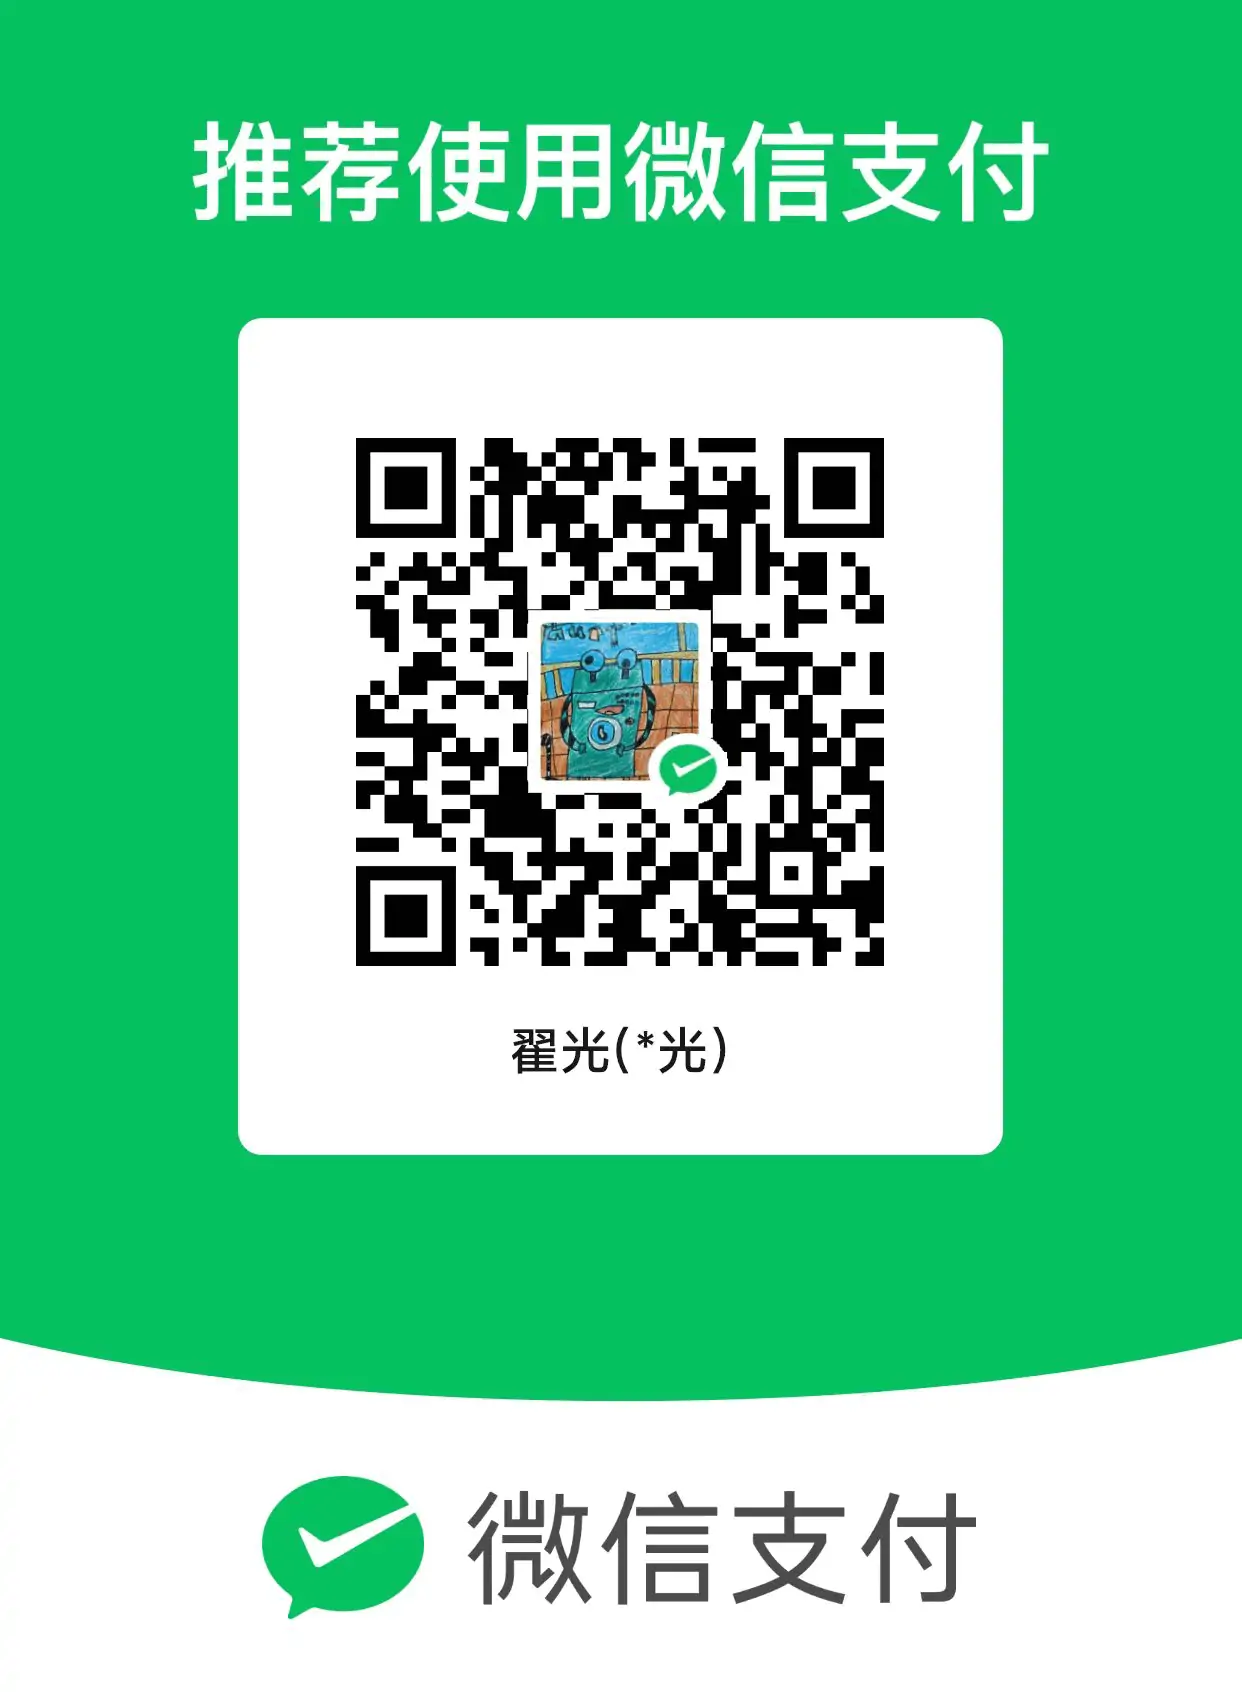
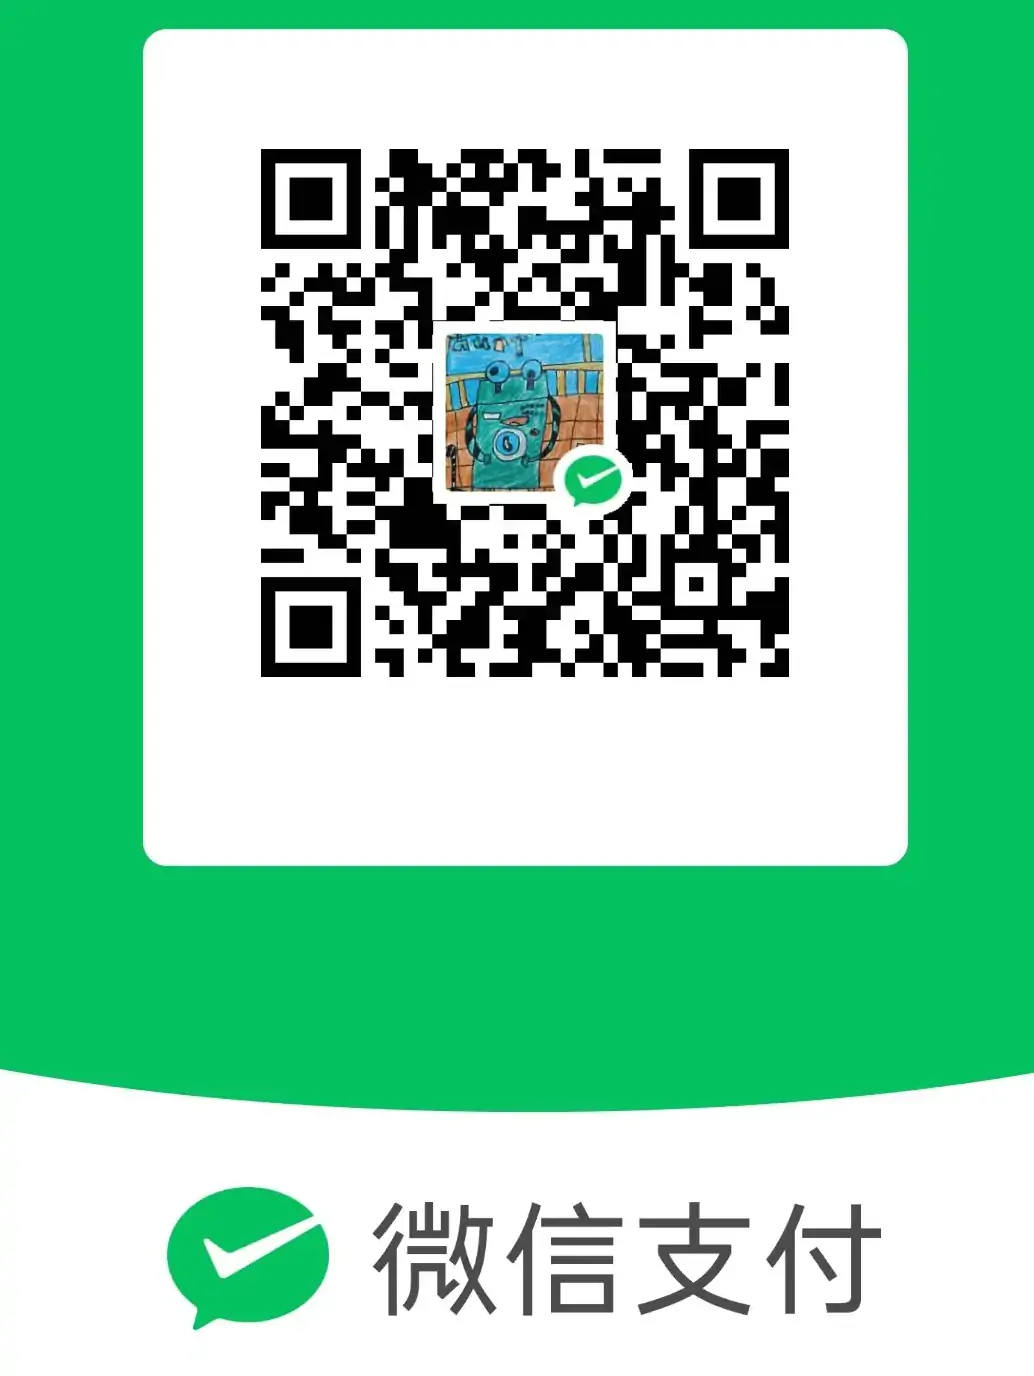
qr edit

diff --git a/README.md b/README.md
@@ -57,5 +57,5 @@ MIT License
 If you find this project useful, you can buy me a coffee:
 
 [![paypal](https://github.com/Ximi1970/Donate/blob/master/paypal_btn_donateCC_LG_1.gif)](https://paypal.me/jameszhai78)
-![Alipay QR Code](images/alipay_qr.webp)
-![WeChat QR Code](images/wechat_qr.webp)
+<img src="images/alipay_qr.webp" alt="Alipay QR Code" style="width:200px;" />
+<img src="images/wechat_qr.webp" alt="WeChat QR Code" style="width:200px;" />
